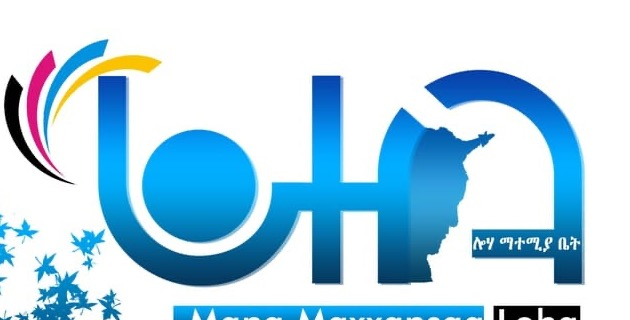
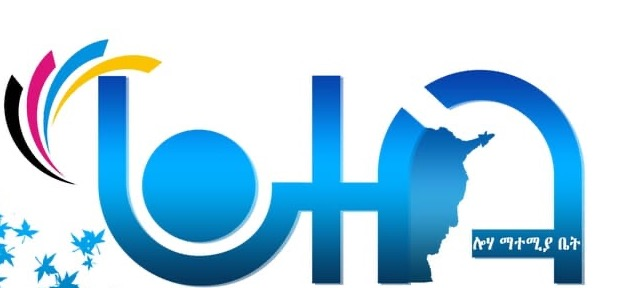
feat(brand): make hero watermark full-bleed, tighten legacy mark crop

diff --git a/app/[locale]/page.tsx b/app/[locale]/page.tsx
@@ -96,18 +96,21 @@ export default async function Home({
             backgroundSize: "56px 56px",
           }}
         />
-        {/* Legacy ሎሃ mark, same heritage treatment as the footer but fainter —
-            it sits right of the headline column so it never crosses the text. */}
+        {/* Legacy ሎሃ mark, same heritage treatment as the footer — filling the
+            whole section as a ghosted brand plate behind the copy. `contain` on
+            narrow screens keeps the mark readable where `cover` would crop it
+            down to a single letterform. */}
         <div
           aria-hidden="true"
-          className="pointer-events-none absolute -right-20 bottom-6 hidden w-[560px] select-none opacity-[0.05] mix-blend-screen [filter:invert(1)_grayscale(1)] xl:block"
+          className="pointer-events-none absolute inset-0 select-none opacity-[0.05] mix-blend-screen [filter:invert(1)_grayscale(1)]"
         >
           <Image
             src="/brand/loha-legacy-mark.jpg"
             alt=""
-            width={630}
-            height={320}
-            className="h-auto w-full"
+            fill
+            sizes="100vw"
+            priority
+            className="object-contain md:object-cover"
           />
         </div>
         <div className="relative mx-auto max-w-6xl px-4 sm:px-6">

diff --git a/app/components/Footer.tsx b/app/components/Footer.tsx
@@ -65,7 +65,7 @@ export default function Footer({ dict }: { dict: Dictionary }) {
           src="/brand/loha-legacy-mark.jpg"
           alt=""
           width={630}
-          height={320}
+          height={288}
           className="h-auto w-full"
         />
       </div>
